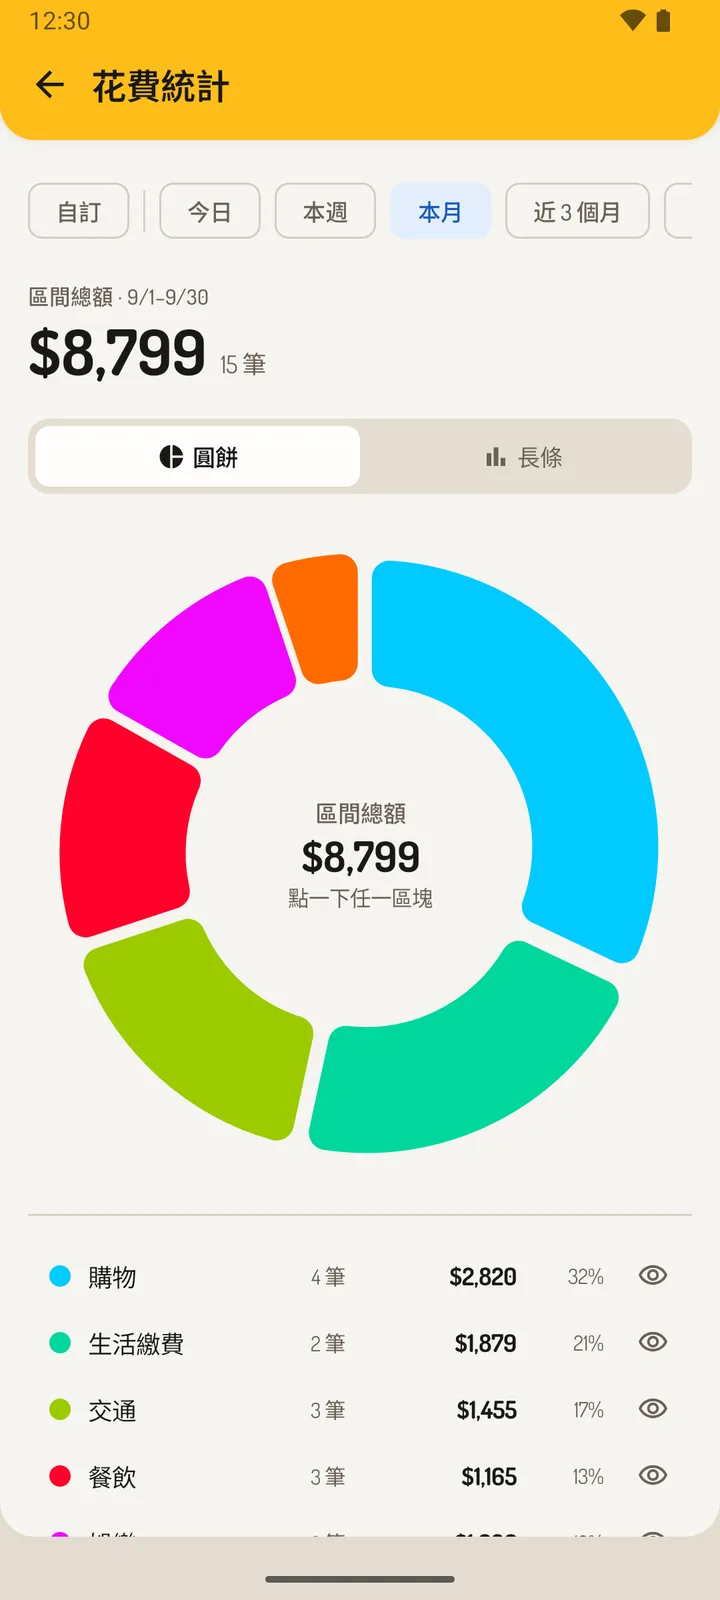
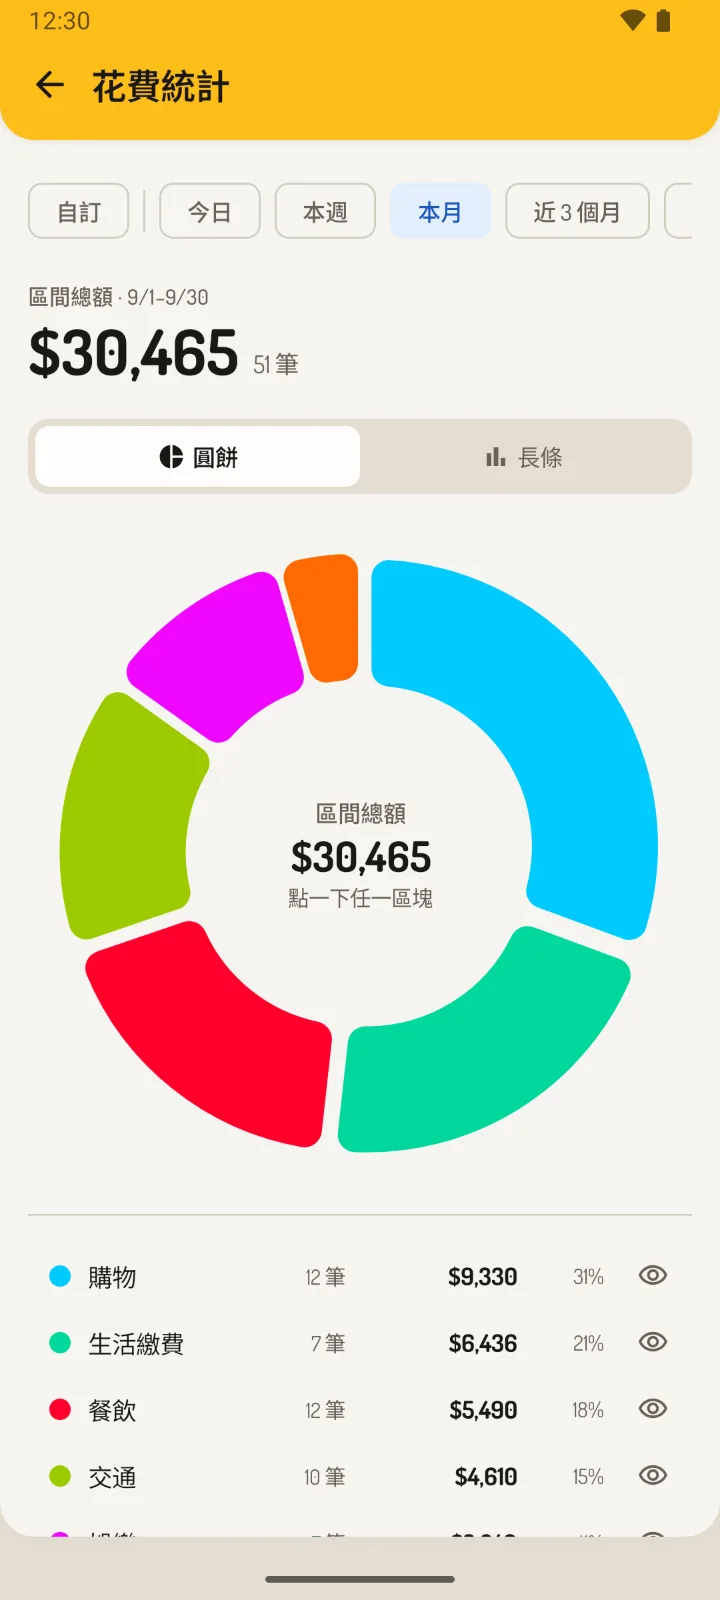
feat(dindon): 宣傳頁換上 v0.6.4 的截圖、同步隱私權政策、刪除頁對齊政策
新板溝通板 #5、#6：前端的商店截圖拍好了，後端的「活動紀錄永久保留」也上線了。

宣傳頁：
- 換上新截圖：帳單截圖（新增）、徽章牆（有七彩級）、花費統計、Beta 排行榜（新增）。
  用瀏覽器 canvas 從 1080×2400 的原始畫面轉成 720 寬的 webp
- 拍照區後面那支原本是「AI 正在讀取收據」，前端已經把那張原圖拿掉了，
  換成帳單截圖——正好是「只要上面有資料」的例子。photo.webp 不再使用，刪掉
- 封測區放排行榜畫面，圖說寫明「畫面中的名字是示範資料」（是後端灌的假裝置）
- hero 的首頁截圖維持舊的：新的那張有兩筆英文店名（模擬器打不了中文），
  放在第一眼的位置不像 App 平常的樣子
- 後端確認之後可以寫的：「名次不並列」「活動結束後紀錄都會留著」；
  全勤小鐵人補「沒有網路的那天不會補打」（App 的常見問題也這樣寫）

隱私權政策：重跑同步腳本（v0.6.4 改了開頭摘要與第 3、5、6、7 節）。

刪除頁「會刪除／會留下」照政策第 6 節對齊：
- 會刪除多了稱號、閃退紀錄
- 會留下多了邀請碼用過的帳號雜湊（刪除之後仍然保留，只用來防重複領獎）、
  活動的統計數字（件數、公開編號、邀請碼、頭像代號、beta 與全勤達成日）

本機：宣傳頁 21 項、刪除頁 37 項全過（含所有截圖載得到、1440／900／390px 版面）。

diff --git a/docs/features/dindon/components/DinDonLanding.vue b/docs/features/dindon/components/DinDonLanding.vue
@@ -143,7 +143,7 @@
 
                 <div class="dindon-landing__phones">
                     <div class="dindon-landing__phone is-back" data-parallax=".06">
-                        <img src="/images/dindon/photo.webp" alt="拍照記帳：AI 正在讀取收據" loading="lazy" />
+                        <img src="/images/dindon/statement.webp" alt="帳單截圖記帳：信用卡帳單的每一列都讀出來，勾選後一次記好" loading="lazy" />
                     </div>
                     <div class="dindon-landing__phone is-front" data-parallax="-.08">
                         <img src="/images/dindon/items.webp" alt="拍照記帳的結果：店家、分類與每個品項的金額" loading="lazy" />
@@ -200,7 +200,7 @@
 
                 <figure class="dindon-landing__figure" data-reveal>
                     <div class="dindon-landing__phone" data-parallax="-.06">
-                        <img src="/images/dindon/badges.webp" alt="徽章牆：勤勞記帳、天天打開等成就徽章" loading="lazy" />
+                        <img src="/images/dindon/badges.webp" alt="徽章牆：勤勞記帳、自動駕駛等成就徽章，從銅級升到七彩級" loading="lazy" />
                     </div>
                     <figcaption>徽章牆</figcaption>
                 </figure>
@@ -233,6 +233,13 @@
                         <p class="dindon-landing__note">
                             需要：Android 7.0 以上的手機、一個 Google 帳號（要和 Play 商店登入的是同一個）。有問題寫信到 <a :href="SIGNUP_HREF" class="email">{{ CONTACT_EMAIL }}</a>。
                         </p>
+
+                        <figure class="dindon-landing__figure is-event" data-reveal>
+                            <div class="dindon-landing__phone" data-parallax="-.05">
+                                <img src="/images/dindon/event.webp" alt="Beta 貢獻活動的排行榜：前三名、自己的名次與每個人的回報件數" loading="lazy" />
+                            </div>
+                            <figcaption>App 裡的排行榜（畫面中的名字是示範資料）</figcaption>
+                        </figure>
                     </div>
 
                     <div>
@@ -252,7 +259,7 @@
                             </li>
                         </ul>
                         <p class="dindon-landing__note is-fine" data-reveal>
-                            名次獎與全勤另外算，一筆接一筆排，從正式版上線那天開始算；實際發放以活動結束時公布為準。換手機也拿得回來：記得在 App 裡綁定 Google 帳號。
+                            名次不並列：同分時先達到這個分數的人排前面。名次獎與全勤另外算，一筆接一筆排，從正式版上線那天開始算；實際發放以活動結束時公布為準。活動結束後，打卡、名次和紀念徽章的紀錄都會留著。換手機也拿得回來：記得在 App 裡綁定 Google 帳號。
                         </p>
                     </div>
                 </div>
@@ -636,6 +643,17 @@
             figcaption {
                 color: var(--dd-muted);
                 font-weight: 700;
+            }
+
+            // 封測區左欄的排行榜：比其他手機小一點，是佐證不是主角
+            &.is-event {
+                margin-top: 36px;
+
+                .dindon-landing__phone { max-width: 250px; }
+                figcaption {
+                    font-size: var(--font-size-s);
+                    font-weight: 400;
+                }
             }
         }
         &__links {

diff --git a/docs/features/dindon/account/content.ts b/docs/features/dindon/account/content.ts
@@ -33,7 +33,7 @@ export const partialItems: iPartialItem[] = [
         keeps: '方案、額度、徽章與活動紀錄都留著，App 照常使用——代價是換手機時不能再用 Google 拿回權益。'
     },
     {
-        title: '送出過的問題回報內容與截圖',
+        title: '送出過的問題回報（內容、截圖、閃退紀錄）',
         inApp: null,
         what: `寫信到 ${CONTACT_EMAIL} 要求刪除，會在活動結束前提前清除。`,
         keeps: '「是問題還是建議、有沒有被採計」的件數不受影響。'
@@ -52,18 +52,22 @@ export const partialItems: iPartialItem[] = [
     }
 ];
 
-/** 刪除整個帳戶時，伺服器上會清掉的東西 */
+/** 刪除整個帳戶時，伺服器上會清掉的東西（稱號是新板溝通板 #48 加的，清除身分時一併清掉） */
 export const accountErased: string[] = [
     '綁定的 Google 帳號 email 與帳號識別碼',
-    '暱稱與上傳的大頭貼',
-    '送出過的問題回報內容、截圖與除錯紀錄',
+    '暱稱、稱號與上傳的大頭貼',
+    '送出過的問題回報內容、截圖、除錯紀錄與閃退紀錄',
     '每日打卡的紀錄'
 ];
 
-/** 刪除整個帳戶之後還會留下的東西（跟隱私權政策第 6 節一致） */
+/**
+ * 刪除整個帳戶之後還會留下的東西。逐條對照隱私權政策第 6 節「叮咚的伺服器」那一項
+ * （舊板溝通板 #36 後端核對過資料庫實際留下什麼），政策改了這裡要跟著改。
+ */
 export const accountKept: string[] = [
-    '一筆對應不回你的裝置流水號，上面只剩方案與額度，用來計算額度與定價',
-    '「是問題還是建議、有沒有被採計」的件數（不含內容）',
+    '一筆對應不回你的裝置流水號，上面只剩方案、額度與權益清單，用來計算額度與定價',
+    '活動的統計數字：被採計的件數、公開編號、邀請碼、內建頭像的代號、beta 資格與全勤的達成日（件數要留著，不然別人的名次會跟著變）',
+    '如果你用過別人的邀請碼：一串無法還原的帳號雜湊，只用來防止同一個帳號重複領獎',
     '使用量的統計數字，同樣已經對應不回你',
     '連線紀錄：依 Google Cloud 的預設，約 30 天後自動刪除'
 ];

diff --git a/docs/features/dindon/constants.ts b/docs/features/dindon/constants.ts
@@ -109,5 +109,5 @@ export const betaRewards: iReward[] = [
             { rank: '之後有回報過的', reward: '1 週' }
         ]
     },
-    { tag: '+1 個月', title: '全勤小鐵人', condition: '封測期間連續 14 天打開叮咚記帳（每天打開會自動打卡）', reward: '名次獎之外，再加「進階」方案 1 個月' }
+    { tag: '+1 個月', title: '全勤小鐵人', condition: '封測期間連續 14 天打開叮咚記帳（每天打開會自動打卡，沒有網路的那天不會補打）', reward: '名次獎之外，再加「進階」方案 1 個月' }
 ];
